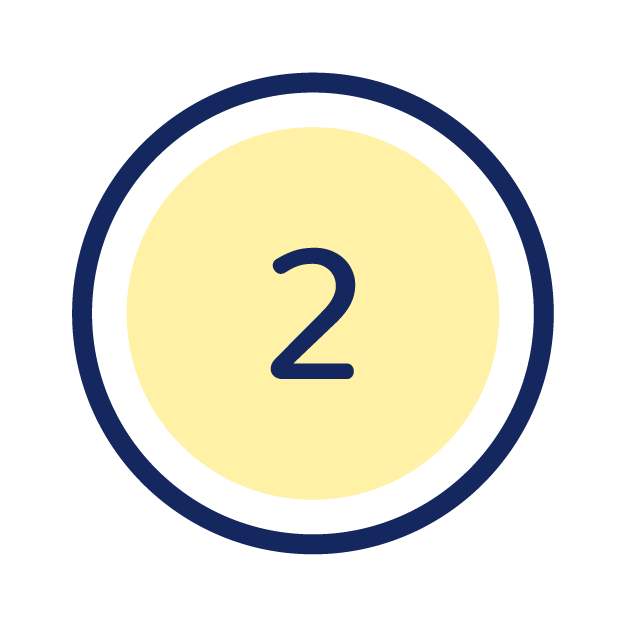
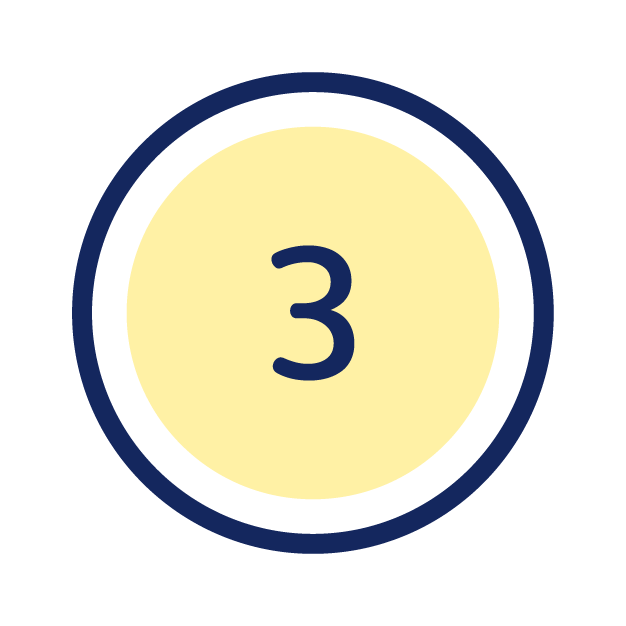
Updated Form styling, linked css to SVG

Changed region(s): [[0.4249, 0.4249, 0.5767, 0.607], [0.4249, 0.3946, 0.516, 0.4553], [0.4856, 0.8802, 0.516, 0.9105]]

diff --git a/index2.html b/index2.html
@@ -1,0 +1,215 @@
+<!DOCTYPE html>
+<html lang="en">
+
+<head>
+
+    <meta charset="utf-8">
+    <meta http-equiv="X-UA-Compatible" content="IE=edge">
+    <meta name="viewport" content="width=device-width, initial-scale=1">
+    <meta name="description" content="">
+    <meta name="author" content="">
+
+    <title>HurryBee</title>
+
+    <!-- Bootstrap Core CSS -->
+    <link href="css/bootstrap.min.css" rel="stylesheet">
+	
+	<!--Custom Css-->
+	<link href="hurrybeecss.css" rel="stylesheet">
+	
+	<link href="https://fonts.googleapis.com/css?family=Nunito:400,700" rel="stylesheet">
+	
+
+    <!-- HTML5 Shim and Respond.js IE8 support of HTML5 elements and media queries -->
+    <!-- WARNING: Respond.js doesn't work if you view the page via file:// -->
+    <!--[if lt IE 9]>
+        <script src="https://oss.maxcdn.com/libs/html5shiv/3.7.0/html5shiv.js"></script>
+        <script src="https://oss.maxcdn.com/libs/respond.js/1.4.2/respond.min.js"></script>
+    <![endif]-->
+
+</head>
+
+<body>
+
+    <!-- Navigation -->
+    <nav class="navbar navbar-fixed-top" role="navigation">
+        <div class="container">
+            <!-- Brand and toggle get grouped for better mobile display -->
+            <div class="navbar-header">
+				<a class="navbar-brand" href="#">
+        			<img class= "logo" alt="Brand" src="logo-01.png">
+      			</a>
+                <button type="button" class="navbar-toggle" data-toggle="collapse" data-target="#bs-example-navbar-collapse-1">
+                    <span class="sr-only">Toggle navigation</span>
+                    <span class="icon-bar"></span>
+                    <span class="icon-bar"></span>
+                    <span class="icon-bar"></span>
+                </button>
+                <a class="navbar-brand" href="#">Hurrybee</a>
+            </div>
+            <!-- Collect the nav links, forms, and other content for toggling -->
+            <div class="collapse navbar-collapse" id="bs-example-navbar-collapse-1">
+                <ul class="nav navbar-nav">
+                    <li>
+                        <a href="#">Help</a>
+                    </li>
+                </ul>
+            </div>
+            <!-- /.navbar-collapse -->
+        </div>
+        <!-- /.container -->
+    </nav>
+
+<br>
+<br>
+<br>
+	
+<div class="container">
+	<div class="row">
+		<div class="col-xs-12">
+			<h2 id="goodMorning">Good Morning!</h2>
+			<p id="welcomeMsg"></p>
+			<br>
+			<br>
+		</div>
+	</div>
+</div>
+	
+<div class="container">
+	<div class="row">
+		
+		<div class="col-md-8 mainform">
+			<h2 class="formSectionHeader">Let's Get Set Up</h2>
+			<br>
+			<label>Today I want to...</label>
+			<div id="listcontainer">
+		  		<ul id="simpleList" class="list-group">
+		  		</ul>
+			</div>
+		</div>
+		
+		<div class="col-md-4 sidebar">
+		<div id="welcome">
+			<img class="img-responsive center-block" src= "numbers-01.png" width ="100px"/>
+			
+					<p id="introText">
+					
+					<br>
+						Drag and drop the activities to change the order you want to do them in this morning.<br>
+						Delete any activites you don't want to do.<br>
+						Adjust the times as needed, and check the estimated time to see if you'll be ready on time.<br>
+					</p>
+			</div>
+		</div>
+		
+	</div>
+</div> 
+	
+	<br>
+	<br>
+
+<div class="container">
+	<div class="row">
+		
+		<div class="col-md-8 mainform">
+			<h2 class="formSectionHeader">Add Something New</h2>
+			<br>
+				<div class="input-group input-group-lg">
+					<label>Activity Name</label>
+  					<input type="text" id="customActName" placeholder="Do a dance" class="form-control" aria-describedby="sizing-addon1">
+				</div>
+				<div class="input-group input-group-lg">
+					<label>Duration</label>
+					<input type="number" id="customActTime"  value="" min=0 max=60 class="form-control" aria-describedby="sizing-addon1">
+				</div>
+				<button type="button" class="btn btn-outline-primary  btn-lg round" id="addNewAct" onclick="buttonAdd()">Add to Morning</button>
+		</div>
+	
+		
+		<div class="col-md-4 sidebar">
+			<div id ="addNew">
+				<img class="img-responsive center-block" src= "numbers-02.png" width ="100px"/>
+				Add your own activity to your morning routine. It'll be saved when you start!
+				<br>
+			</div>
+		</div>
+	</div>
+</div>
+	
+	
+	<br>
+	<br>
+	
+<div class="container">
+	<div class="row">
+		
+		<div class="col-md-8 mainform">
+			<h2 class="formSectionHeader">On track?</h2>
+			<br>
+				<div id ="timeEstimateContainer">
+				Your Estimated time in minutes: <p id="timeEstimate"></p>
+			</div>
+		</div>
+	
+		
+		<div class="col-md-4 sidebar">
+			<img class="img-responsive center-block" src= "numbers-03.png" width ="100px"/>
+				
+			<p>Your morning routine should take about this long.</p>
+				<br>
+			
+		</div>
+	</div>
+</div>
+
+		
+		
+<br>
+	<br>
+
+	
+<div class="container">
+	<div class="row">
+		<div class="col-xs-1"></div>
+		<div class="col-xs-10">
+				<button type="button" id="startGame" class="btn btn-outline-primary  btn-block btn-lg round">Let's Go!</button>
+			<br>
+			<br>
+		</div>
+		<div class="col-xs-1"></div>
+	</div>
+</div>
+	
+
+<div class="container">
+	<div class="row">
+		<div class="col-xs-1"></div>
+		<div class="col-xs-10">
+			<button id="testGetList">Test Get List</button>
+			<button id="testClearStorage">Test Clear Storage</button>			
+			<br>
+			<br>
+		</div>
+		<div class="col-xs-1"></div>
+	</div>
+</div>
+
+
+	
+	<!--Drag and Drop JS-->
+	<script src="js/Sortable.js"></script>
+	
+	
+	<!-- Custom Game Code-->
+	<script src= "hurrybeecode.js"></script>
+
+    <!-- jQuery Version 1.11.1 -->
+    <script src="js/jquery.js"></script>
+	
+	
+    <!-- Bootstrap Core JavaScript -->
+    <script src="js/bootstrap.min.js"></script>
+
+</body>
+
+</html>

diff --git a/hurrybeecss.css b/hurrybeecss.css
@@ -61,6 +61,36 @@
 		color: #14275E;
 		}
 
+/*
 #introText{
 	background-color: #F8DB01;
 }
+*/
+
+.sidebar{
+/*	background-color: #F8DB01;*/
+	text-align: center;
+}
+
+.mainform{
+	background-color: #FFFFE5;
+}
+
+#goodMorning{
+	text-align: center;
+	font-weight: 700;
+	font-size: 3em;
+}
+
+#welcomeMsg{
+	text-align: center;
+}
+
+.formSectionHeader{
+	background-color: #FF9C32;
+	color: white;
+	padding: 7px;
+	font-weight: 700;
+	border-radius: 6px;
+}
+

diff --git a/gameanim.css b/gameanim.css
@@ -1,6 +1,6 @@
 /* COFFEE SCENE ANIMATIONS */
         
-.lid-animation {
+#Jar_x5F_Lid {
     animation: lidAnim linear 2s;
     animation-iteration-count: infinite;
     transform-origin:  0% 50%;
